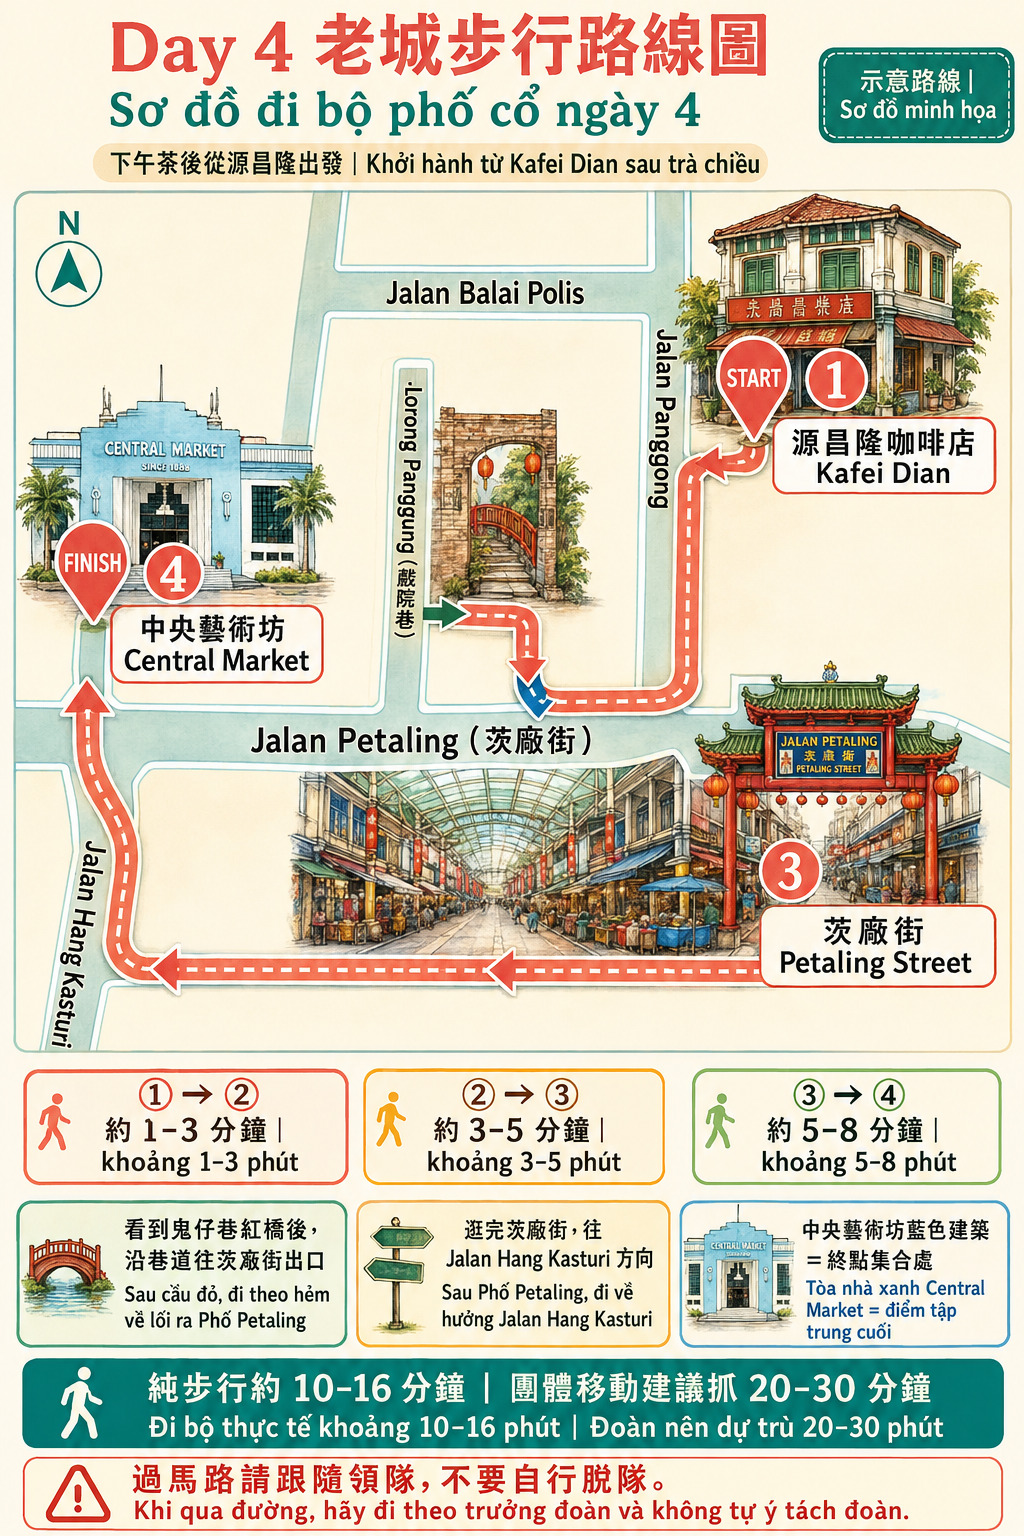
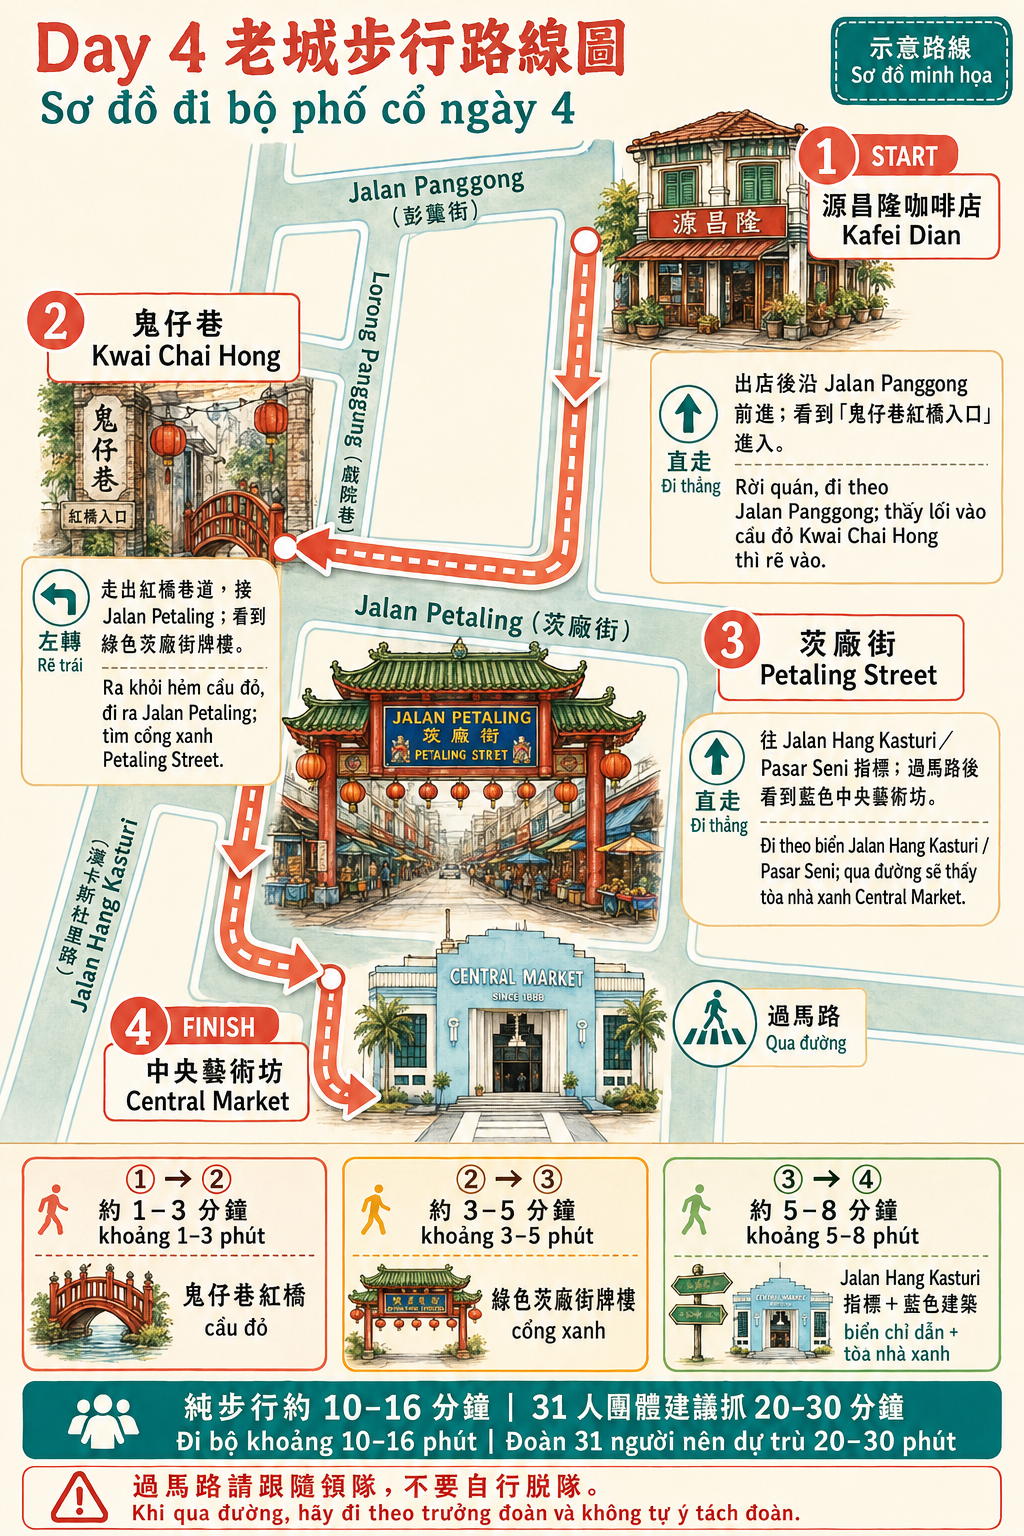
v4.3.4: update Day 3 and Day 4 itinerary guide images

diff --git a/js/components/travel-guide.js b/js/components/travel-guide.js
@@ -38,6 +38,20 @@ const GUIDE_CARDS=Object.freeze({
     descZh:'中越文對照整理伴手禮、Fipper、錫器、鞋包服飾與建議購物順序。',
     descVi:'Hướng dẫn song ngữ về quà lưu niệm, Fipper, đồ thiếc, giày dép, thời trang và thứ tự mua sắm.'
   },
+  jalanAlorFood:{
+    image:'./images/guide-jalan-alor-food.png',
+    eyebrowZh:'Day 3 晚餐後',eyebrowVi:'Sau bữa tối Day 3',
+    titleZh:'亞羅街夜市美食指南',titleVi:'Cẩm nang ẩm thực chợ đêm Jalan Alor',
+    descZh:'黃亞華晚餐、飯後夜市小吃、甜點飲品與熱帶水果選擇。',
+    descVi:'Bữa tối tại Wong Ah Wah, món ăn đêm, món ngọt, đồ uống và trái cây nhiệt đới.'
+  },
+  jalanAlorRoute:{
+    image:'./images/guide-jalan-alor-route.png',
+    eyebrowZh:'Day 3 散步路線',eyebrowVi:'Lộ trình đi bộ Day 3',
+    titleZh:'亞羅街晚餐後散步路線',titleVi:'Lộ trình dạo Jalan Alor sau bữa tối',
+    descZh:'遊覽車集合點 → 黃亞華晚餐 → 沿亞羅街散步 → 街尾折返 → 原路返回集合點。',
+    descVi:'Điểm tập trung → ăn tối Wong Ah Wah → dạo Jalan Alor → quay lại cuối phố → trở về điểm tập trung.'
+  },
   oldTownFood:{
     image:'./images/guide-day4-old-town-food.png',
     eyebrowZh:'Day 4 老城散步',eyebrowVi:'Dạo phố cổ Day 4',

diff --git a/js/pages/itinerary.js b/js/pages/itinerary.js
@@ -15,12 +15,12 @@ function dayGuides(day){
 }
 
 function dayTravelGuides(day){
-  const guides={1:['boarding','entry'],3:['pavilion','mall'],4:['oldTownFood','oldTownRoute'],5:['return']}[day]||[];
+  const guides={1:['boarding','entry'],3:['pavilion','jalanAlorFood','jalanAlorRoute','mall'],4:['oldTownFood','oldTownRoute'],5:['return']}[day]||[];
   if(!guides.length)return '';
   const title=day===1
     ?bi('出發與入境圖卡','Hình hướng dẫn khởi hành và nhập cảnh')
     :day===3
-      ?bi('Pavilion 與住宿周邊購物圖卡','Hình mua sắm Pavilion và gần khách sạn')
+      ?bi('Pavilion、亞羅街與住宿周邊圖卡','Hình Pavilion, Jalan Alor và khu vực gần khách sạn')
       :day===4
         ?bi('老城美食購物與步行路線','Ẩm thực, mua sắm và lộ trình phố cổ')
       :bi('回台前圖卡','Hình hướng dẫn trước khi về Đài Loan');

diff --git a/service-worker.js b/service-worker.js
@@ -1,4 +1,4 @@
-const CACHE='gn-malaysia-v4.3.3-day3-day4-guides-20260723';
+const CACHE='gn-malaysia-v4.3.4-itinerary-guides-20260723';
 const CORE=[
   './',
   './index.html',
@@ -50,6 +50,8 @@ const CORE=[
   './images/guide-baggage-safety.webp',
   './images/guide-sunway-mall.webp',
   './images/guide-pavilion-shopping.png',
+  './images/guide-jalan-alor-food.png',
+  './images/guide-jalan-alor-route.png',
   './images/guide-day4-old-town-food.png',
   './images/guide-day4-old-town-route.png',
   './images/guide-return-baggage.webp',

diff --git a/CHANGELOG.md b/CHANGELOG.md
@@ -184,3 +184,9 @@
 - 修正住宿須知縮圖比例與裁切，長圖會依原始 2:3 比例完整顯示。
 - 保留點擊全螢幕放大、下載圖片與離線瀏覽。
 - 更新 PWA 離線快取版本。
+# v4.3.4 — Day 3／Day 4 行程圖卡更新（2026-07-23）
+
+- Day 3 更新 Pavilion Kuala Lumpur 必買伴手禮清單。
+- Day 3 新增亞羅街夜市美食指南與晚餐後散步路線。
+- Day 4 更新吉隆坡老城巡禮與完善版步行路線。
+- 5 張圖卡均沿用點擊放大、下載／儲存與離線快取設定。